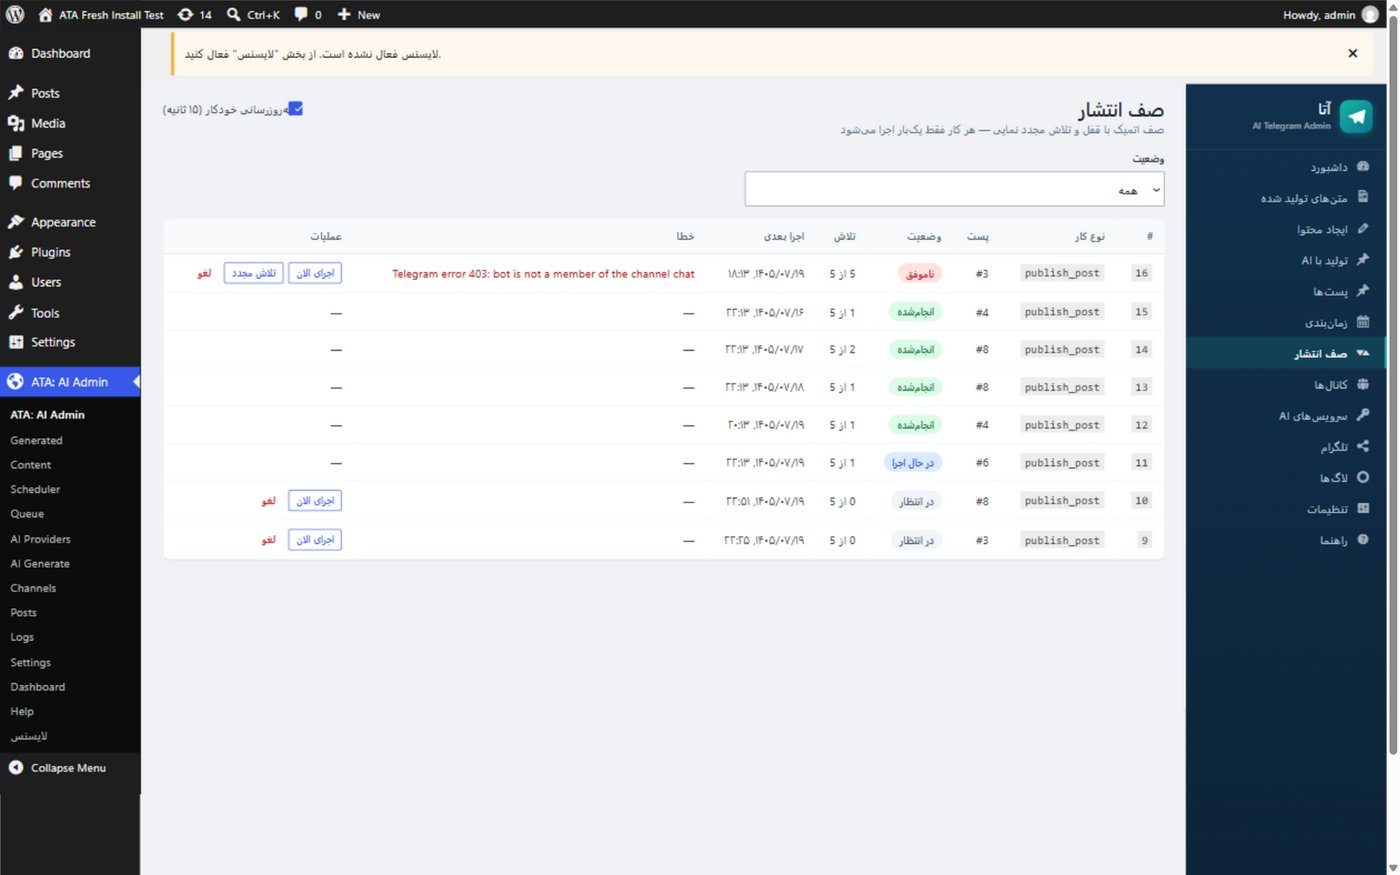
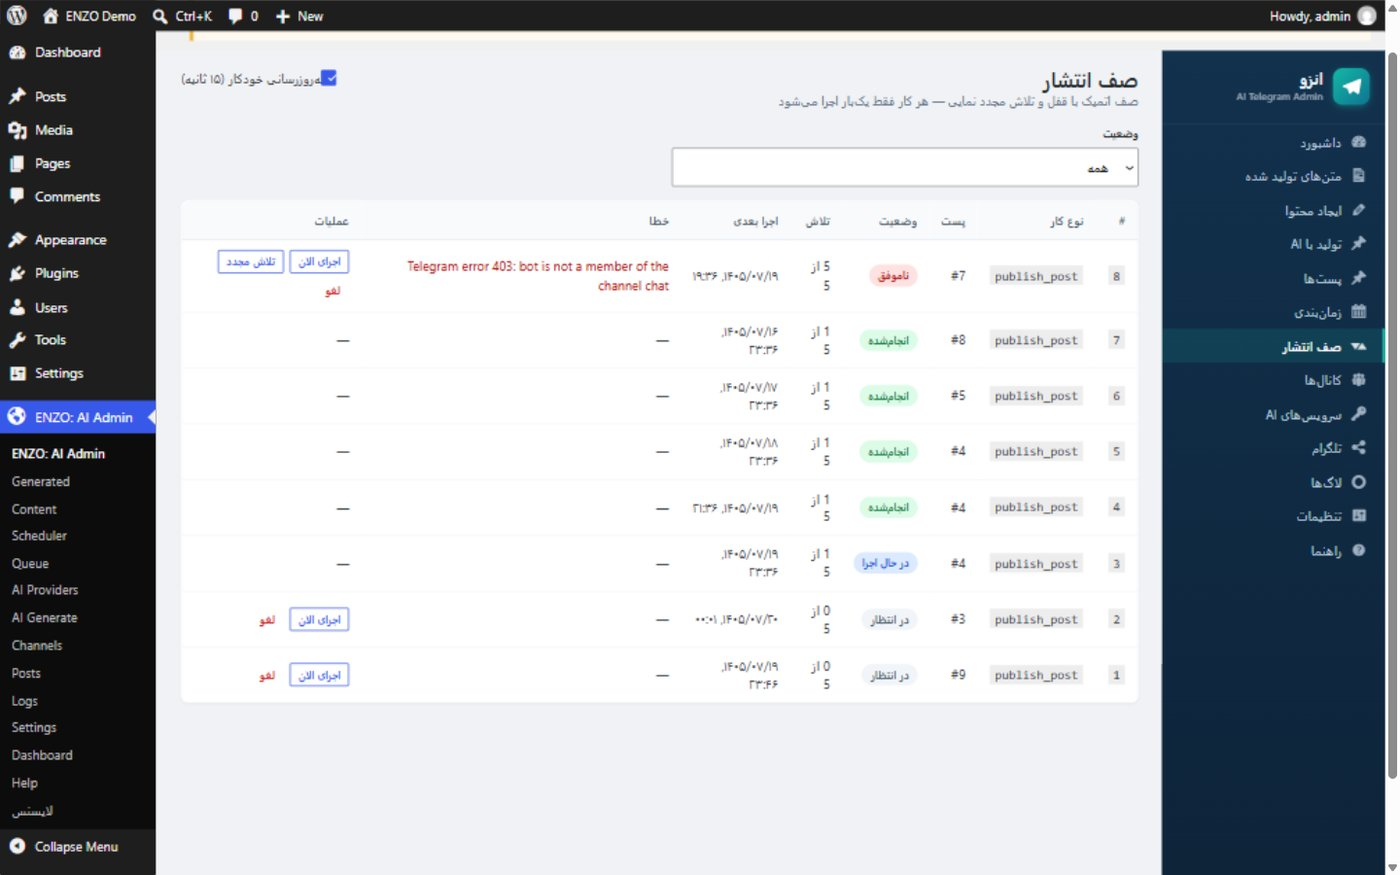
release(1.2.0): ENZO visuals — 15 real admin screenshots + cover + workflow infographic rebuilt from staging, demo shots regenerated, submission package + manifests regenerated (plugin zip SHA-256 db250d3f…)

diff --git a/release/ENZO-RTL-Theme-Submission/submission-only/RTL-VISUAL-PLAN-FA.md b/release/ENZO-RTL-Theme-Submission/submission-only/RTL-VISUAL-PLAN-FA.md
@@ -1,6 +1,6 @@
 # پلن داراییهای تصویری — کاور، اسکرینشاتها، ویدیوها
 
-> ✅ **وضعیت — ساخته شد (v1.1.0، 2026-10-11):** همه موارد زیر تولید شدهاند و در پوشه `visuals/` کنار همین سند قرار دارند.
+> ✅ **وضعیت — ساخته شد (v1.2.0 با برند ENZO، 2026-10-11):** همه موارد زیر تولید شدهاند و در پوشه `visuals/` کنار همین سند قرار دارند.
 > - **کاور:** `visuals/cover-enzo.png` (۱۲۰۰×۶۳۰ — ترکیب برند + اسکرینشات واقعی داشبورد)
 > - **اسکرینشاتها:** اینبار **همه واقعی** از محیط staging با دیتای نمونه فارسی گرفته شدند: 01-dashboard، 02-telegram-connect، 03-ai-providers، 04-generation، 05-review-posts (+مودال پیشنمایش تلگرامی 08-preview-modal)، 06-queue، 07-logs + موارد تکمیلی (channels، content-create، scheduler، settings، help، extra-provider-modal)
 > - **اینفوگرافیک:** `visuals/08-workflow.png` (گردش کار ۴ مرحلهای)

diff --git a/release/ENZO-RTL-Theme-Submission/submission-only/FINAL-DELIVERY-REPORT-FA.md b/release/ENZO-RTL-Theme-Submission/submission-only/FINAL-DELIVERY-REPORT-FA.md
@@ -1,3 +1,5 @@
+> یادداشت v1.2.0 (2026-10-11): این گزارش متعلق به سشن ۰۳ (نسخهٔ 1.0.0-MVP) است و بهصورت تاریخی حفظ شده. افزونهٔ فعلی: dist/enzo-telegram-ai-admin-1.2.0.zip با SHA-256 db250d3f9524442734eda7d707ba1a379dfe4defbe1361676f6cb3914a1e6cbb. مانیفست کامل: RELEASE-MANIFEST.txt ریشهٔ بسته.
+
 # گزارش نهایی تحویل — آمادهسازی سابمیشن RTL-Theme (2026-10-11)
 
 ## ۱. محل خروجی
